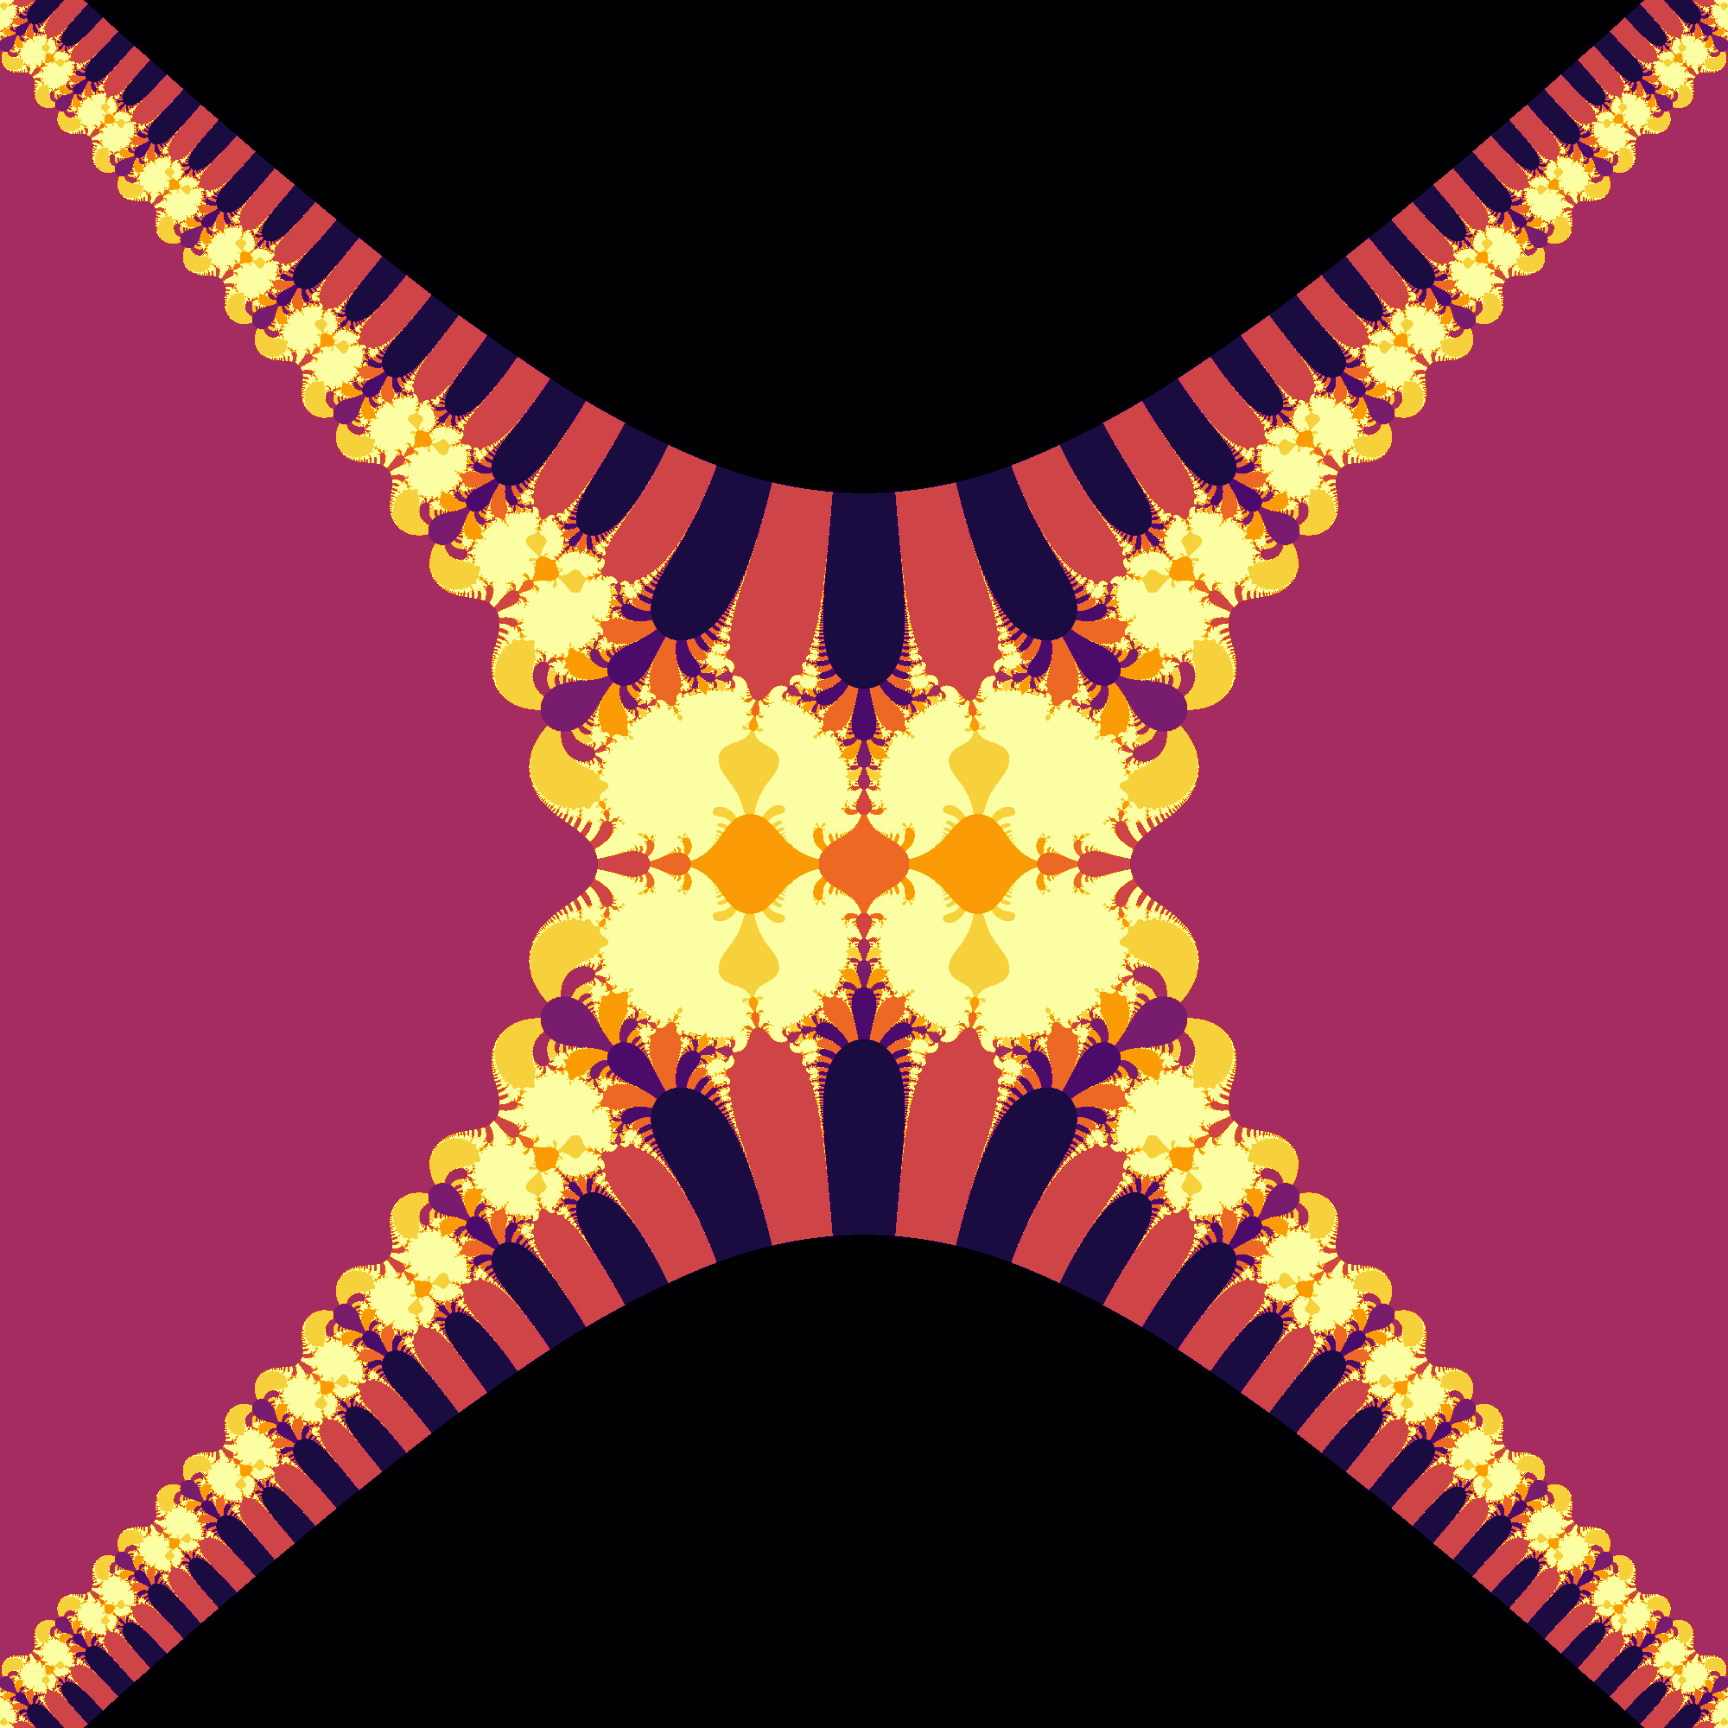
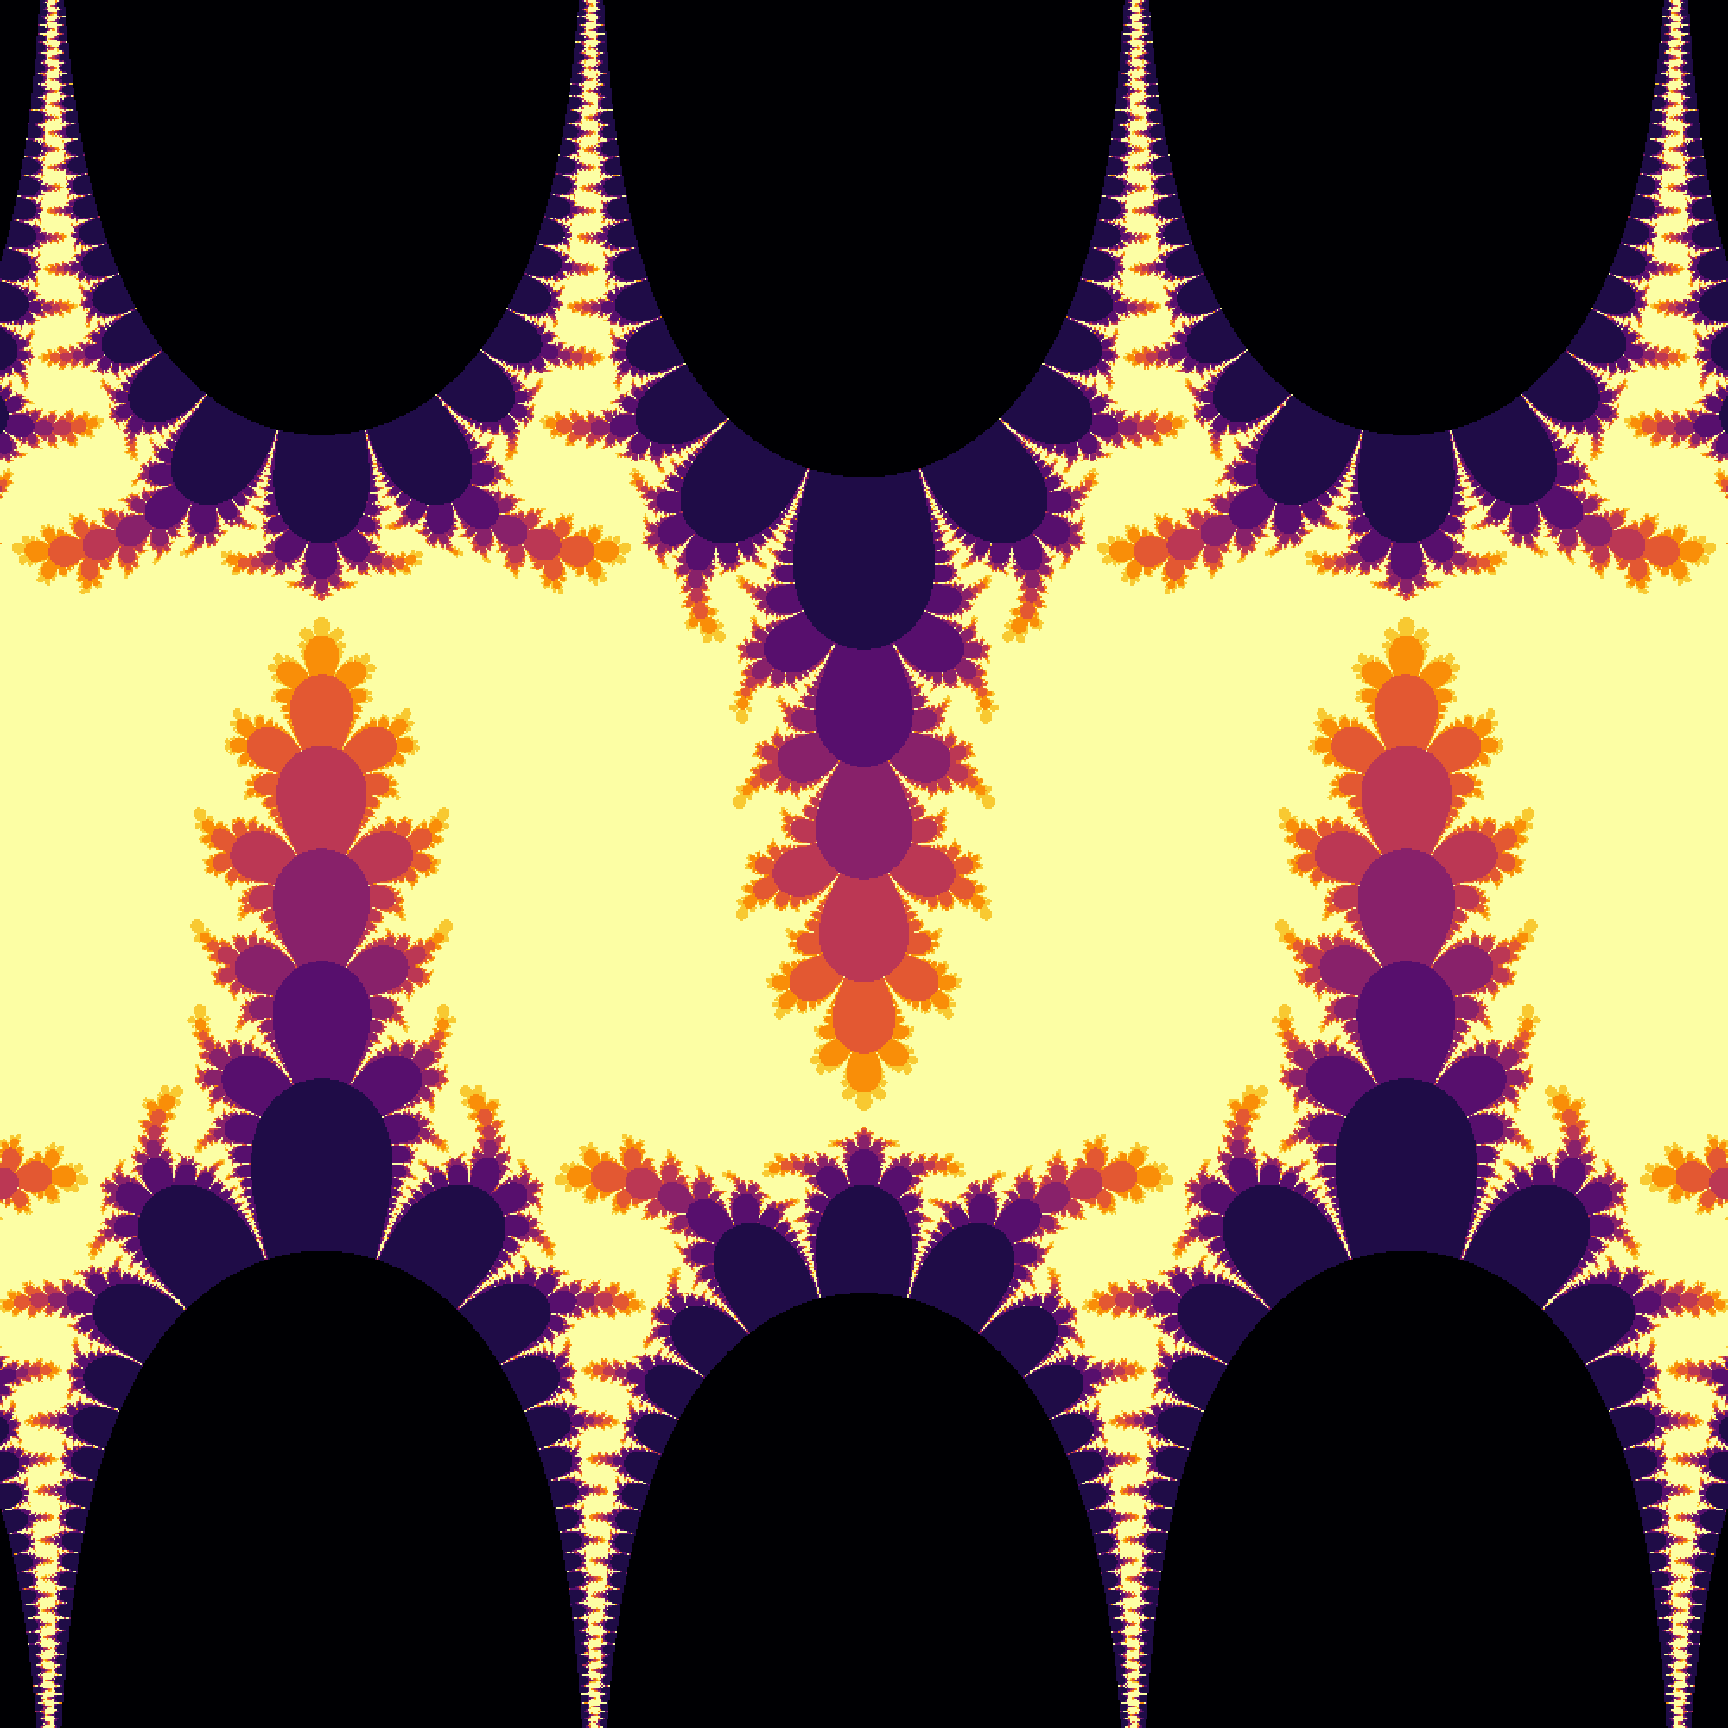
Pruebas

diff --git a/Proyectos/Proyecto_1/Fractales_de_Julia/Julia_set.py b/Proyectos/Proyecto_1/Fractales_de_Julia/Julia_set.py
@@ -3,11 +3,12 @@ import numpy as np
 
 
 def f(z, c):
-    return np.exp(z**2)+c
+    return np.sinh(z)+c
+    # return np.exp(z**2)+c
 
 
 parameters = {
-    "size": 2000,
+    "size": 1000,
     "c": -0.65,
     "zmax": 100,
     "kmax": 10,
